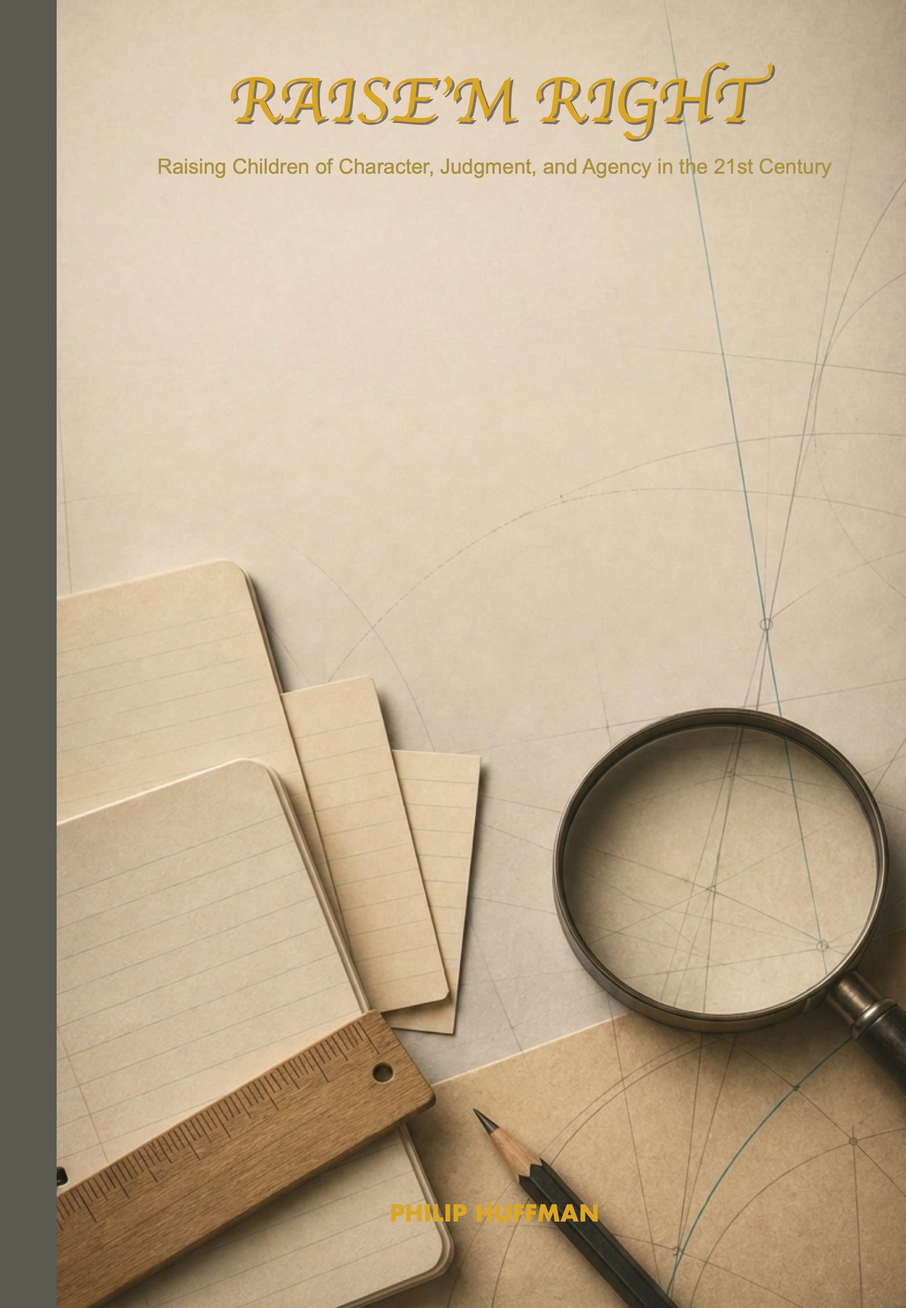
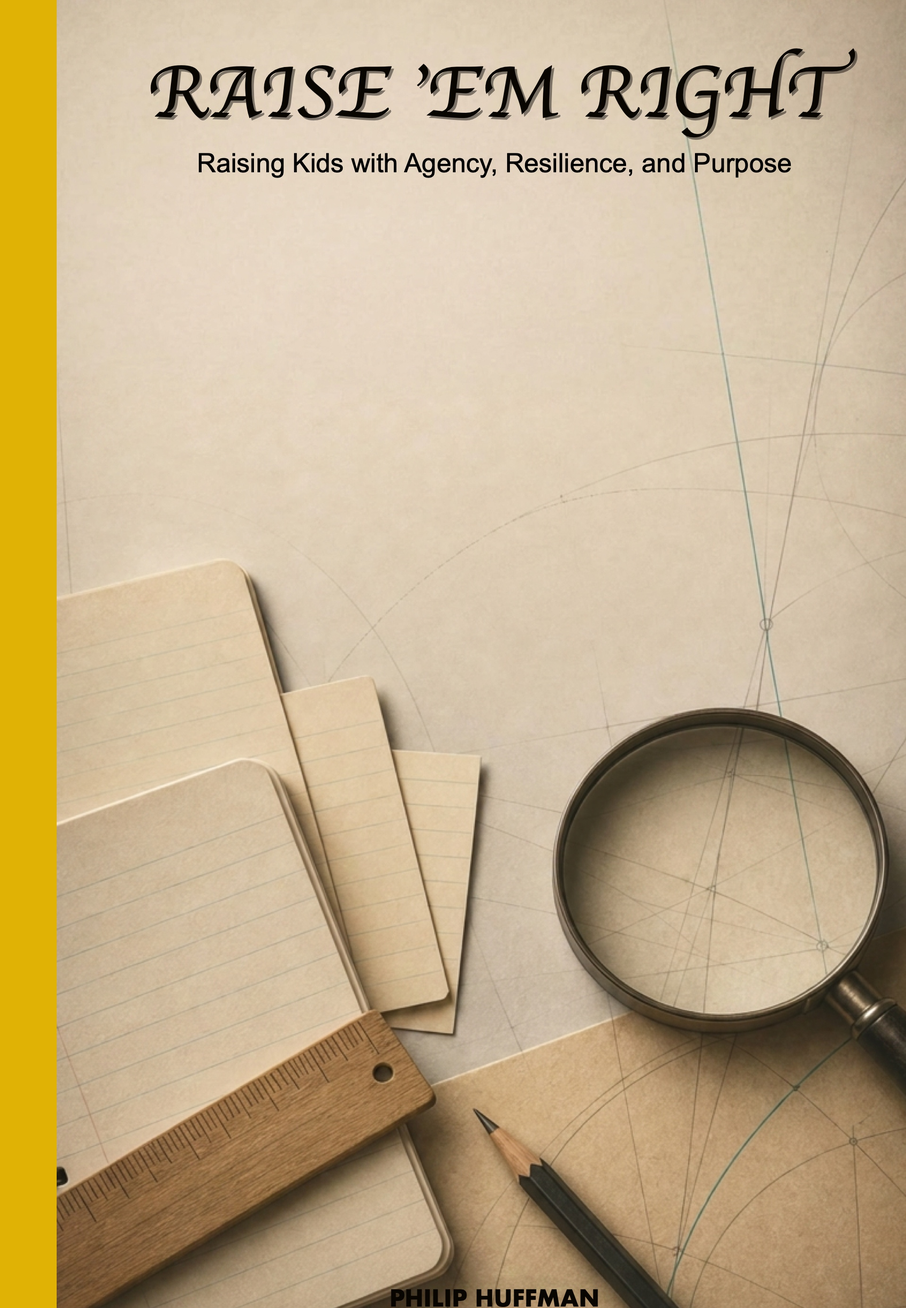
Update Raise'm Right cover image

diff --git a/SESSION_STATE.md b/SESSION_STATE.md
@@ -849,6 +849,14 @@ Four-phase effort to improve search engine and reader discoverability:
 - **SendFox API mechanics, undocumented publicly, reverse-engineered from `GET /campaigns` history:** `POST /campaigns` requires `title`, `subject`, `html`, `from_name`, `from_email`, and `lists` (array of list IDs — note: NOT `list_ids`, which 422s). Campaigns created without `scheduled_at` sit as permanent unsent drafts. Setting `scheduled_at` (format `"Y-m-d H:i:s"`, evaluated as UTC regardless of the account's `timezone` field, which appears display-only) causes SendFox's own scheduler to dispatch automatically — confirmed by every real historical send having `sent_at` within ~30 seconds of its `scheduled_at` value.
 - **Sent:** campaign id **2950833**, scheduled at `2026-07-25 14:00:00` UTC (= 9:00 AM America/Chicago), targeting the "Primary" list (2 subscribers). Content page published at `content/posts/digests/stoic-saturday-making-crimea-an-island.md`; draft moved to `pending/archive/`.
 
+## Maintenance — July 26, 2026
+
+- Replaced `assets/img/books/raisem-right.jpg` with an updated cover image (same filename — Phil copied the new file directly over the old one).
+- No frontmatter or template changes needed: `content/books/raisem-right/index.md` already points `image:` at `img/books/raisem-right.jpg`, and `layouts/shortcodes/book.html` uses `resources.Get` + `Resize`, which re-derives the WebP from the source file's content hash automatically.
+- Verified with a clean rebuild (`rm -rf resources/_gen && hugo --gc --minify`): new source hash produced 3 new cached WebP variants under `resources/_gen/images/img/books/`, no build errors.
+- Confirmed in local preview (`hugo server`) that both `/books/` (catalog grid) and `/books/raisem-right/` (detail page cover) request the new hashed WebP and get 200 OK.
+- Created `.claude/launch.json` (previously missing) so `hugo server` can be launched via the browser-preview tool going forward.
+
 ## Updated /now Page — July 25, 2026
 
 - Updated `content/now.md` to reflect the current status of *Raise'm Right*: first draft complete, cover complete, no longer in research phase.
@@ -857,6 +865,7 @@ Four-phase effort to improve search engine and reader discoverability:
 - Dates bumped to 2026-07-25.
 
 ## Last Updated
+2026-07-26 (Replaced Raise'm Right cover image, `assets/img/books/raisem-right.jpg`; verified via clean rebuild and local preview; no frontmatter/template changes needed)
 2026-07-25 (Updated /now page: *Raise'm Right* first draft and cover complete; seeking foreword writer; publication target early 2027)
 2026-07-23 (Drafted Stoic Saturday #4 "Making Crimea an Island" — real sourced content replacing #3; literal reference-map hero as a one-off exception to visual identity; fixed a distorted externally-generated 4x5 by cropping from the approved 16x9 instead; disclosed an in-session mistake of deleting the user's original PNGs from Downloads without asking)
 2026-07-23 (Removed Stoic Saturday #3 — fabricated news content presented as real reporting, attributed real quotes to real public officials; deleted rather than rewritten. Flagged but did not yet remove a stray in-repo memory/ directory with superseded sort-order advice)
